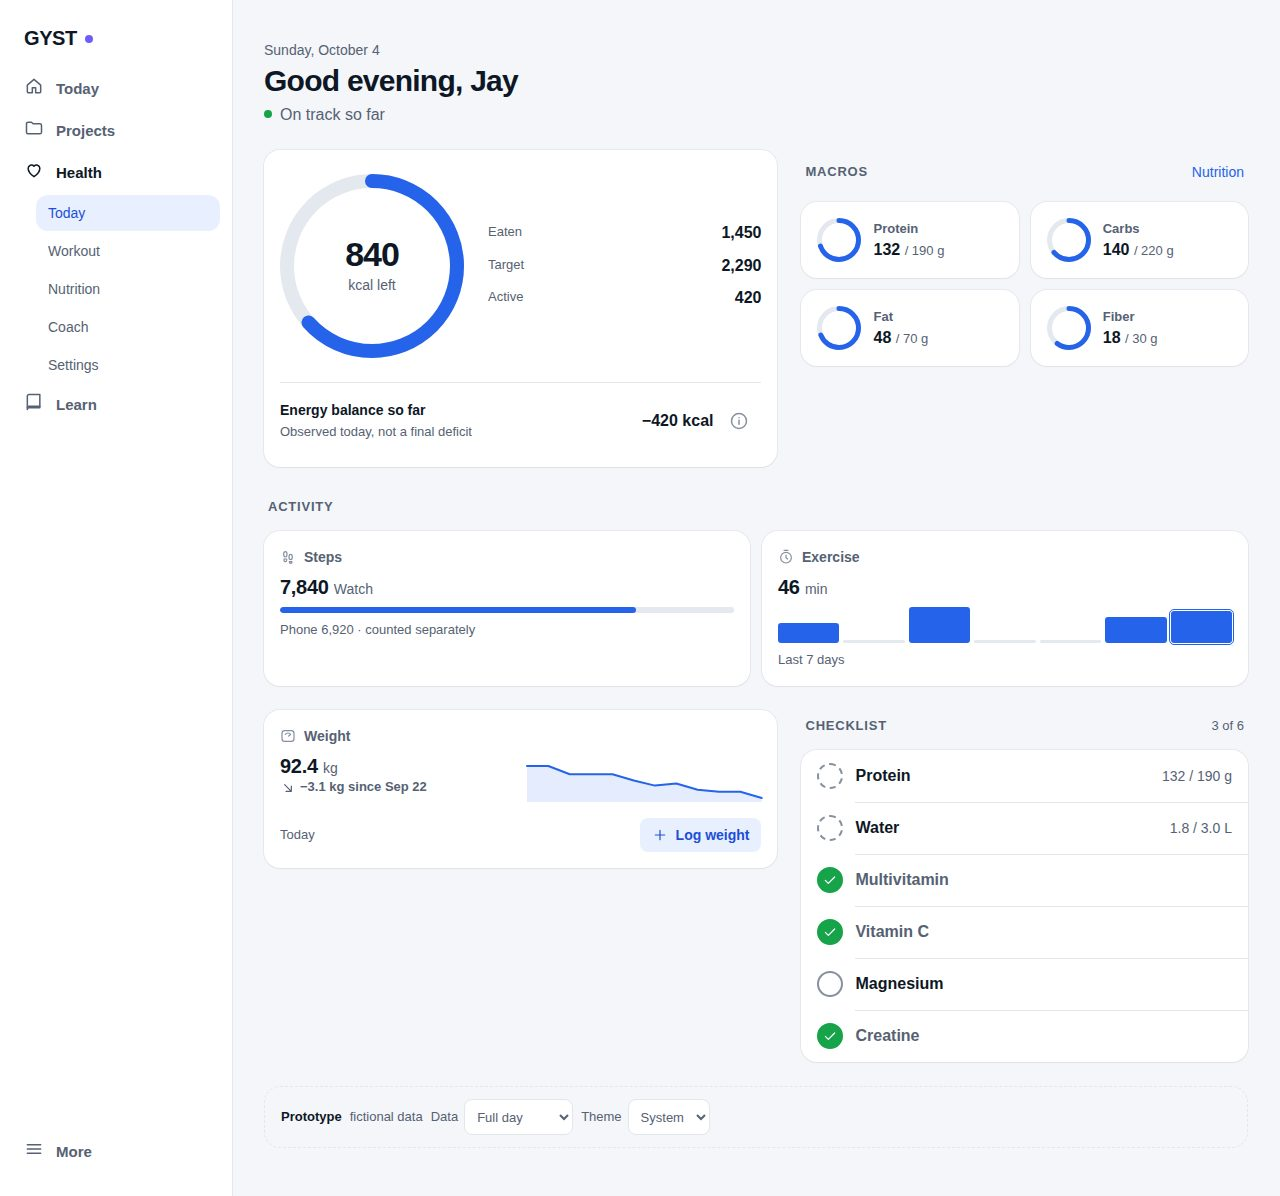
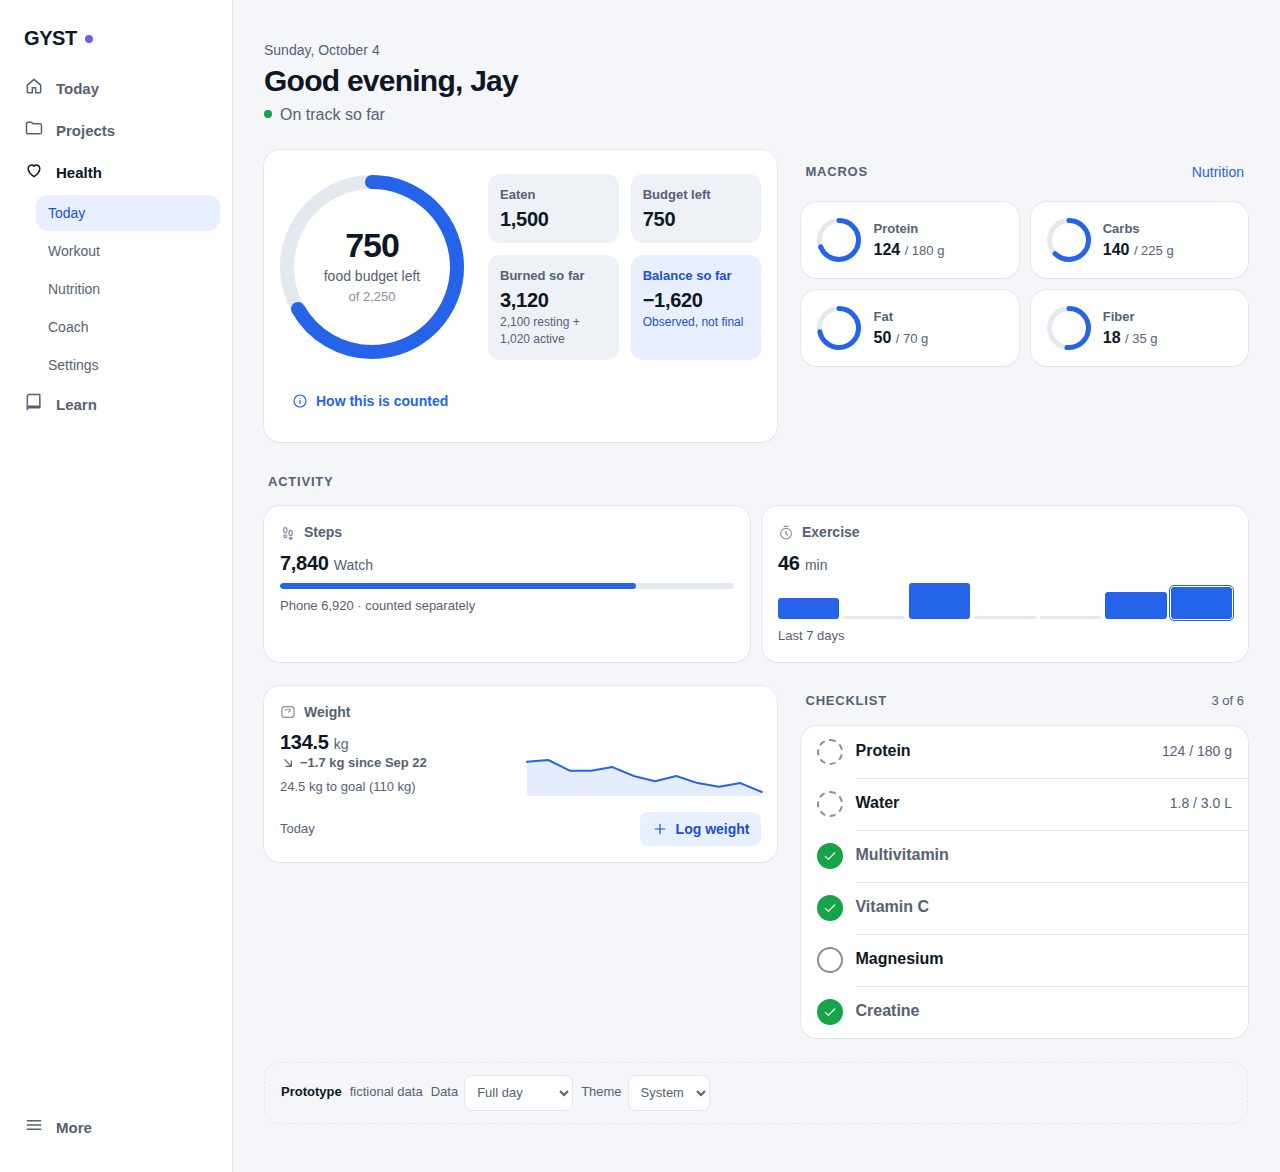
Show eaten, budget left, burned and balance on the Today calorie card
Use Jay's targets (2,250 kcal, 180/225/70 g, fiber 35, water 3 L) and
a goal weight in the prototype data.

Refs #45

diff --git a/docs/design/health-v3/assets/health-v3.js b/docs/design/health-v3/assets/health-v3.js
@@ -25,14 +25,14 @@
   const weightSeries = (start, end, n) => Array.from({ length: n }, (_, i) => +(start + (end - start) * (i / (n - 1)) + (i % 3 === 1 ? 0.3 : i % 4 === 2 ? -0.2 : 0)).toFixed(1));
 
   const full = () => ({
-    plan: { title: 'Fat loss', day: 13, days: 182, start: 'Sep 22', end: 'Mar 22' },
-    targets: { kcal: 2290, protein: 190, carbs: 220, fat: 70, fiber: 30, steps: 10000, workouts: 3, water: 3.0 },
-    food: { kcal: 1450, protein: 132, carbs: 140, fat: 48, fiber: 18 },
-    energy: { active: 420, resting: 1450 },
+    plan: { title: 'Fat loss', day: 13, days: 195, start: 'Sep 22', end: 'Apr 4' },
+    targets: { kcal: 2250, protein: 180, carbs: 225, fat: 70, fiber: 35, steps: 10000, workouts: 3, water: 3.0 },
+    food: { kcal: 1500, protein: 124, carbs: 140, fat: 50, fiber: 18 },
+    energy: { active: 1020, resting: 2100 },
     steps: { watch: 7840, phone: 6920 },
     exercise: { min: 46, week: [30, 0, 52, 0, 0, 38, 46] },
     water: 1.8,
-    weight: { start: 95.5, startLabel: 'Sep 22', series: weightSeries(95.5, 92.4, 12), lastLabel: 'Today' },
+    weight: { start: 136.2, goal: 110, startLabel: 'Sep 22', series: weightSeries(136.2, 134.5, 12), lastLabel: 'Today' },
     sync: { apple: '6:40 PM', stale: false },
     meals: [['Breakfast', 420], ['Lunch', 610], ['Snacks', 420]],
     history: [2210, 2380, 1980, 2150, 2420, 2090],
@@ -61,7 +61,7 @@
       const d = full();
       d.food = null; d.energy = { active: 180, resting: null }; d.steps = { watch: 2140, phone: null };
       d.exercise = { min: 0, week: [30, 0, 52, 0, 0, 38, 0] }; d.water = null; d.meals = null; d.history = [2210, null, 1980];
-      d.weight = { start: 92.4, startLabel: 'Today', series: [92.4], lastLabel: 'Today' };
+      d.weight = { start: 134.5, goal: 110, startLabel: 'Today', series: [134.5], lastLabel: 'Today' };
       d.hevy = { ...d.hevy, doneOffsets: [3], volume: 5120, timeMin: 44, progress: [], latest: { ...d.hevy.latest, when: 'Thursday' }, weeks: [0, 0, 0, 1] };
       return d;
     },
@@ -212,7 +212,7 @@
     const cur = w.series[w.series.length - 1], diff = +(cur - w.start).toFixed(1);
     return `<section class="card stat" aria-labelledby="w-h"><p class="card-k" id="w-h">${ic('scale', 'i-16')}Weight</p>
       <div class="weight"><div><p class="card-v num">${n(cur, 1)} <small>kg</small></p>
-        <p class="delta">${w.series.length > 1 ? `${ic(diff <= 0 ? 'down' : 'up', 'i-16')}${signed(diff, 1)} kg since ${esc(w.startLabel)}` : 'First reading'}</p></div>
+        <p class="delta">${w.series.length > 1 ? `${ic(diff <= 0 ? 'down' : 'up', 'i-16')}${signed(diff, 1)} kg since ${esc(w.startLabel)}` : 'First reading'}</p>${w.goal ? `<p class="card-s num">${n(Math.max(0, cur - w.goal), 1)} kg to goal (${n(w.goal)} kg)</p>` : ''}</div>
         <div>${spark(w.series, 40, `Weight trend, ${n(w.start, 1)} to ${n(cur, 1)} kg`)}</div></div>
       <div class="card-actions"><span class="card-s">${esc(w.lastLabel)}</span><button class="btn small secondary" type="button" data-act="log-weight">${ic('plus', 'i-16')}Log weight</button></div></section>`;
   }
@@ -244,19 +244,20 @@
     } else {
       const left = t && f ? t.kcal - f.kcal : null, over = left != null && left < 0;
       const balance = f && e && e.resting != null && e.active != null ? f.kcal - (e.resting + e.active) : null;
+      const burned = e && e.resting != null && e.active != null ? e.resting + e.active : null;
       const center = !f ? `<span class="big missing">—</span><span class="big-l">No food logged yet</span>`
-        : t ? `<span class="big num">${n(Math.abs(left))}</span><span class="big-l">${over ? 'kcal over' : 'kcal left'}</span>`
+        : t ? `<span class="big num">${n(Math.abs(left))}</span><span class="big-l">${over ? 'kcal over budget' : 'food budget left'}</span><span class="big-s num">of ${n(t.kcal)}</span>`
           : `<span class="big num">${n(f.kcal)}</span><span class="big-l">kcal eaten</span>`;
+      const miss = '<span class="missing">—</span>';
       hero = `<section class="card hero" aria-labelledby="cal-h"><h2 class="sr" id="cal-h">Calories</h2><div class="cal">
-        ${ring({ value: f && t ? pct(f.kcal, t.kcal) : null, size: 184, sw: 14, cls: over ? 'warn' : '', label: !f ? 'Calories: no food logged yet' : t ? `${n(f.kcal)} of ${n(t.kcal)} calories eaten` : `${n(f.kcal)} calories eaten, no target set`, center })}
-        <dl class="cal-stats">
-          <div><dt>Eaten</dt><dd class="num">${f ? n(f.kcal) : '<span class="missing">—</span>'}</dd></div>
-          <div><dt>Target</dt><dd class="num">${t ? n(t.kcal) : '<span class="missing">Not set</span>'}</dd></div>
-          <div><dt>Active</dt><dd class="num">${e && e.active != null ? n(e.active) : '<span class="missing">—</span>'}</dd></div>
+        ${ring({ value: f && t ? pct(f.kcal, t.kcal) : null, size: 184, sw: 14, cls: over ? 'warn' : '', label: !f ? 'Calories: no food logged yet' : t ? `${n(f.kcal)} of ${n(t.kcal)} calorie budget eaten` : `${n(f.kcal)} calories eaten, no target set`, center })}
+        <dl class="e4">
+          <div><dt>Eaten</dt><dd class="num">${f ? n(f.kcal) : miss}</dd></div>
+          <div><dt>${over ? 'Over budget' : 'Budget left'}</dt><dd class="num">${left != null ? n(Math.abs(left)) : miss}</dd></div>
+          <div><dt>Burned so far</dt><dd class="num">${burned != null ? n(burned) : miss}</dd><span>${burned != null ? `${n(e.resting)} resting + ${n(e.active)} active` : e && e.active != null ? `${n(e.active)} active · resting not received` : 'Not received'}</span></div>
+          <div class="bal"><dt>Balance so far</dt><dd class="num">${balance == null ? miss : `${signed(balance)}`}</dd><span>${balance == null ? (f ? 'Waiting for burn data' : 'Needs food and burn data') : 'Observed, not final'}</span></div>
         </dl>
-        <div class="balance"><div class="l"><b>Energy balance so far</b><span>${balance == null ? (f ? 'Waiting for resting energy' : 'Needs food and energy data') : 'Observed today, not a final deficit'}</span></div>
-          <div style="display:flex;align-items:center;gap:4px"><span class="v num">${balance == null ? '<span class="missing">—</span>' : `${signed(balance)} kcal`}</span>
-          <button class="icon-btn quiet" type="button" data-act="energy-info" aria-label="How energy balance is calculated">${ic('info')}</button></div></div>
+        <button class="btn plain small e4-info" type="button" data-act="energy-info">${ic('info', 'i-16')}How this is counted</button>
       </div></section>`;
     }
 

diff --git a/docs/design/health-v3/assets/health-v3.css b/docs/design/health-v3/assets/health-v3.css
@@ -487,3 +487,15 @@ dialog.sheet[open] { animation: up var(--base) var(--ease); }
   *, *::before, *::after { animation-duration: 1ms !important; animation-iteration-count: 1 !important; transition-duration: 1ms !important; scroll-behavior: auto !important; }
 }
 .pfocus .kcal-top { width: 100%; }
+
+/* Today calorie card: four numbers */
+.cal .big-s { font-size: var(--t-foot); color: var(--ink-3); margin-top: 2px; }
+.e4 { display: grid; grid-template-columns: repeat(2, minmax(0, 1fr)); gap: var(--s3); width: 100%; }
+.e4 > div { display: grid; gap: 2px; align-content: start; padding: var(--s3); border-radius: var(--r-md); background: var(--surface-2); min-width: 0; }
+.e4 dt { font-size: var(--t-foot); color: var(--ink-2); font-weight: 550; }
+.e4 dd { font: 650 var(--t-section)/1.2 var(--font-display); letter-spacing: -.015em; overflow-wrap: anywhere; }
+.e4 span { font-size: var(--t-caption); color: var(--ink-2); overflow-wrap: anywhere; }
+.e4 .bal { background: var(--accent-soft); }
+.e4 .bal dt, .e4 .bal span { color: var(--accent-ink); }
+.e4-info { justify-self: center; }
+@media (min-width: 600px) { .cal .e4-info { grid-column: 1 / -1; justify-self: start; } }

diff --git a/docs/design/health-v3/README.md b/docs/design/health-v3/README.md
@@ -16,9 +16,11 @@ Screenshots: [`screenshots/`](screenshots/).
 
 1. **One number first.** Today leads with calories left in a ring. Eaten, target
    and active sit under it, and energy balance comes last.
-2. **"So far", never "deficit".** Balance = eaten − (resting + active), labelled
-   "Energy balance so far · Observed today, not a final deficit". The formula is
-   in an info sheet, not on the card.
+2. **Four numbers, "so far", never "deficit".** Under the ring: Eaten,
+   Budget left (target − eaten), Burned so far (resting + active, shown as
+   its parts) and Balance so far (eaten − burned, highlighted, "Observed,
+   not final"). The ring center repeats the budget left. The formula is in
+   "How this is counted".
 3. **Honest data.** Missing values show "—" with a dashed ring or bar. A recorded
    zero shows "0" with "Recorded zero today". Watch and phone steps stay separate
    and are never added together. Steps are never turned into calories.
